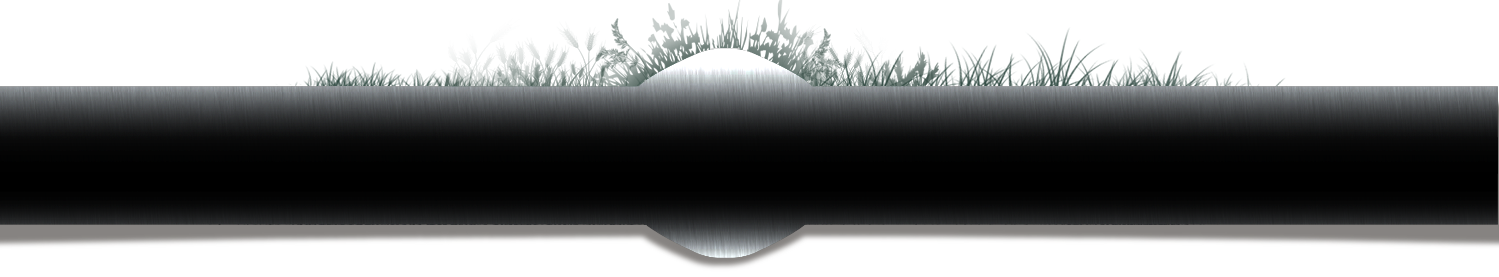
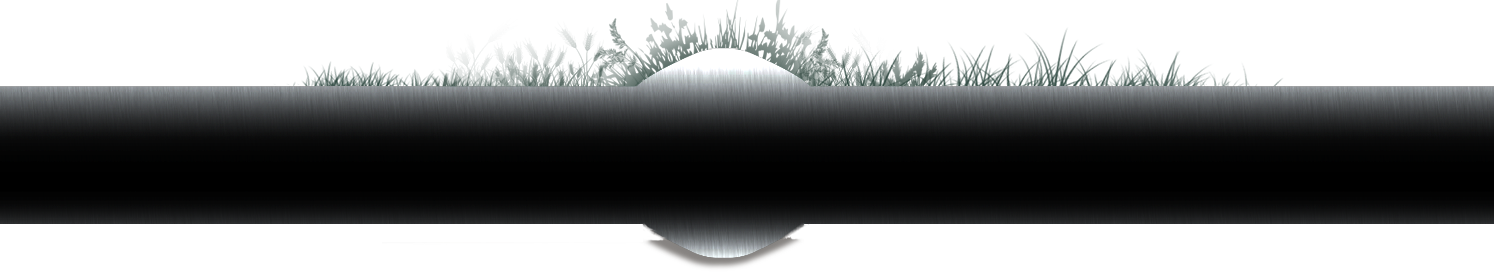
add navigation backgroud

diff --git a/style.css b/style.css
@@ -304,7 +304,7 @@ ul.language-switcher-locale-url li.lt {
   position: relative;
 }
 .front #navigation {
-  background-image: none;
+  background-image: url(images/front_menu_repeat.png);
 }
 
 #navbg {
